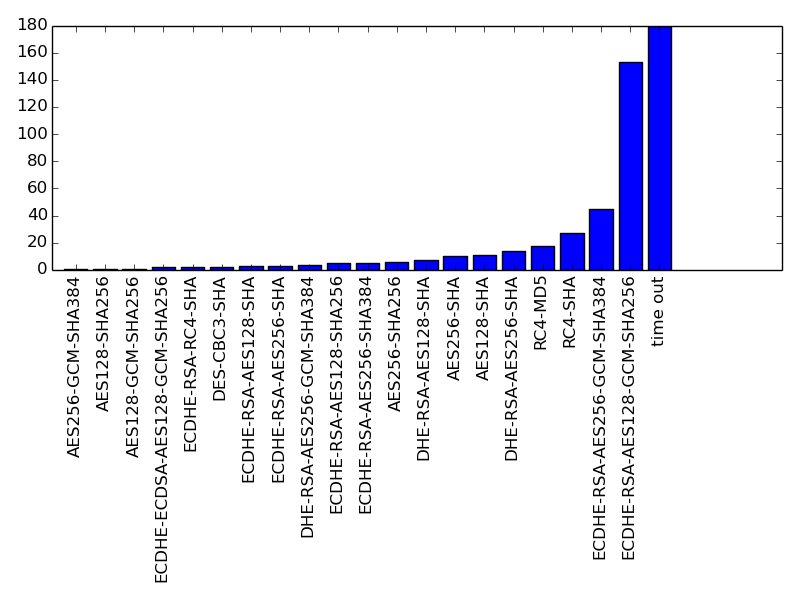
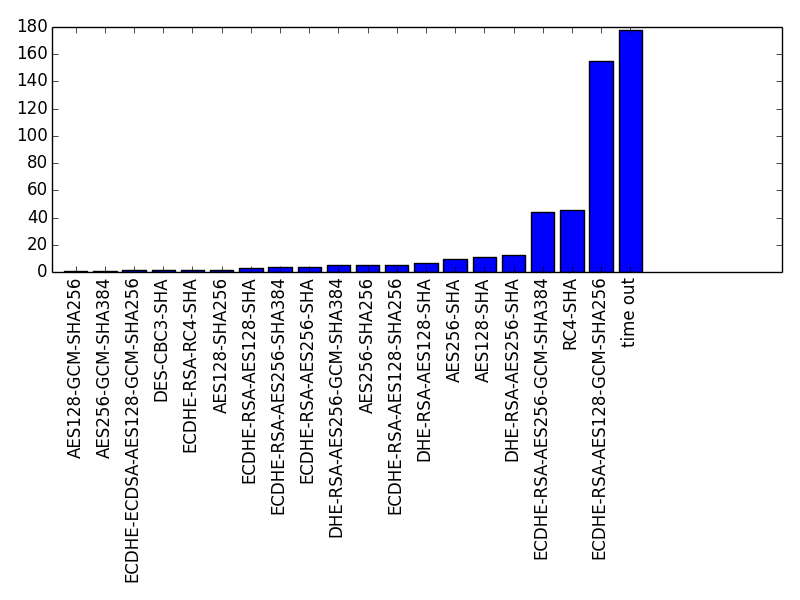
Description of other tasks added to solutions file; task 5 more pythonic

Changed region(s): [[0.0, 0.03, 0.9688, 0.99]]

diff --git a/solutions.tex b/solutions.tex
@@ -25,7 +25,7 @@
 
 \begin{document}
 \maketitle
-\setcounter{exercise}{2}
+\setcounter{exercise}{1}
 \begin{exercise}
     Let $\overline m$ be an arbitrary message in blocks of length 8, hence
     $\overline m = \left( \overline m_1, \dots , \overline m_t \right)$. Then define
@@ -49,5 +49,57 @@
     $i$-th bit in an XOR-Operation. Thus to alter the value of $K(m')$ to get
     the exact same value as $K(m)$, only the bits which are different have to be
     flipped.
+\end{exercise}
+
+\begin{exercise}
+    see task\_3\_3\_man\_in\_the\_middle.py, task\_3\_3\_decryption\_test.py and
+    task\_3\_3\_output.txt
+\end{exercise}
+
+\begin{exercise}\hfill
+
+    \begin{description}
+        \item[TLS\_ECDHE\_RSA\_WITH\_AES\_128\_GCM\_SHA256]\hfill
+
+            \begin{itemize}
+                \item ECDHE is used to exchange keys for the communication
+                \item RSA is used for authentication
+                \item AES with GCM is used to encrypt the communication
+                \item SHA256 is used to secure the integrity of data
+            \end{itemize}
+
+\item[TLS\_RSA\_RC4\_128\_MD5]
+    \begin{itemize}
+        \item RSA is used to exchange keys for the communication
+        \item RSA is also used for authentication
+        \item RC4 is used to encrypt the communication
+        \item MD5 is used to secure the integrity of data
+    \end{itemize}
+
+\item[MD5 vs SHA256]
+    MD5 has 128 bit hash value,
+    SHA256 has 256 bit hash value,
+    so the possibility to have the same hash for two different messages is much much smaller for SHA256,
+    furthermore MD5 might be broken
+
+\item[RC4 vs AES]
+    RC4 is a block cipher. It is fast, simpler, not so secure. RC4 might be broken.
+    AES is a stream cipher. It is not so fast, but much more secure.
+    \end{description}
+
+Since MD5 and RC4 are presumed to be broken and having a second algorithm for authentication instead of using the same algorithm as for key exchange, the first cipher suite is more secure.
+An attacker could find a collision for MD5 where the actual data and some other data have the same hash. This is much more probable for the shorter MD5 hash than for the longer SHA256 hash.
+He could use this to catch data before the client receives it and send different data instead with the same hash, so the receiver will never know, that the data got exchanged.
+If an attacker knows how to break RC4, he could use this to read the messages, where sender and receiver think that their data is encrypted and not visible to anyone else.
+
+Sources:
+\url{http://www.differencebetween.net/technology/internet/difference-between-aes-and-rc4/}
+\url{http://www.kuketz-blog.de/nsa-abhoersichere-ssl-verschluesselung-fuer-apache-und-nginx/}
+\end{exercise}
+
+\begin{exercise}
+See task\_3\_5\_cipher\_suite.py for the implementation and
+task\_3\_5\_cipher\_suite\_histogram.png and task\_3\_5\_cipher\_suite\_output.txt for the
+output.
 \end{exercise}
 \end{document}

diff --git a/task_3_5_cipher_suite.py b/task_3_5_cipher_suite.py
@@ -7,6 +7,7 @@ import numpy as np
 import matplotlib
 matplotlib.rcParams.update({'figure.autolayout': True})
 import matplotlib.pyplot as plt
+import os
 
 # read file with domains, every line must contain one domain and return list of domains
 def getDomainsFromFile(file_name):
@@ -23,7 +24,22 @@ def getServerTlsInformation(domain, timeout):
         # create socket, then use ssl to connect
         s = socket.socket(socket.AF_INET, socket.SOCK_STREAM)
         s.settimeout(timeout)
-        ssl_sock = ssl.wrap_socket(s, cert_reqs=ssl.CERT_REQUIRED, ca_certs='/etc/ssl/certs/ca-certificates.crt')
+
+        # the file where the certificates are saved is platform dependend
+        # if on your system those are saved in a different place, please add
+        # the filepath to this list 
+        ca_cert_files = [
+                '/etc/ssl/certs/ca-bundle.crt', 
+                '/etc/ssl/certs/ca-certificates.crt',
+                ]
+        ca_cert_file = None
+        for cert_file in ca_cert_files:
+            if os.path.exists(cert_file):
+                ca_cert_file = cert_file
+        if ca_cert_file is None:
+            raise RuntimeError
+
+        ssl_sock = ssl.wrap_socket(s, cert_reqs=ssl.CERT_REQUIRED, ca_certs=ca_cert_file)
         ssl_sock.connect((domain, 443))
         # read and return all cipher information
         return ssl_sock.cipher()
@@ -47,14 +63,14 @@ hist = defaultdict(int)
 
 # analyze each domain in list and write information in file
 with open("task_3_5_cipher_suite_output.txt", "w") as f:
-    for i in xrange(len(domains)):
-        print "%s/%s" % (i+1, len(domains))
-        cipher_information = getServerTlsInformation(domains[i], 2)
+    for domain in domains:
+        print("{}/{}".format(i+1, len(domains)))
+        cipher_information = getServerTlsInformation(domain, 2)
         hist[cipher_information[0]] += 1
         f.write("----------------------------------------\r\n")
-        f.write("%s\r\n" % domains[i])
+        f.write("{}\r\n".format(domain))
         for info in cipher_information:
-            f.write("%s\r\n" % info)
+            f.write("{}\r\n".format(info))
         f.write("----------------------------------------\r\n")
         f.write("\r\n")
 
